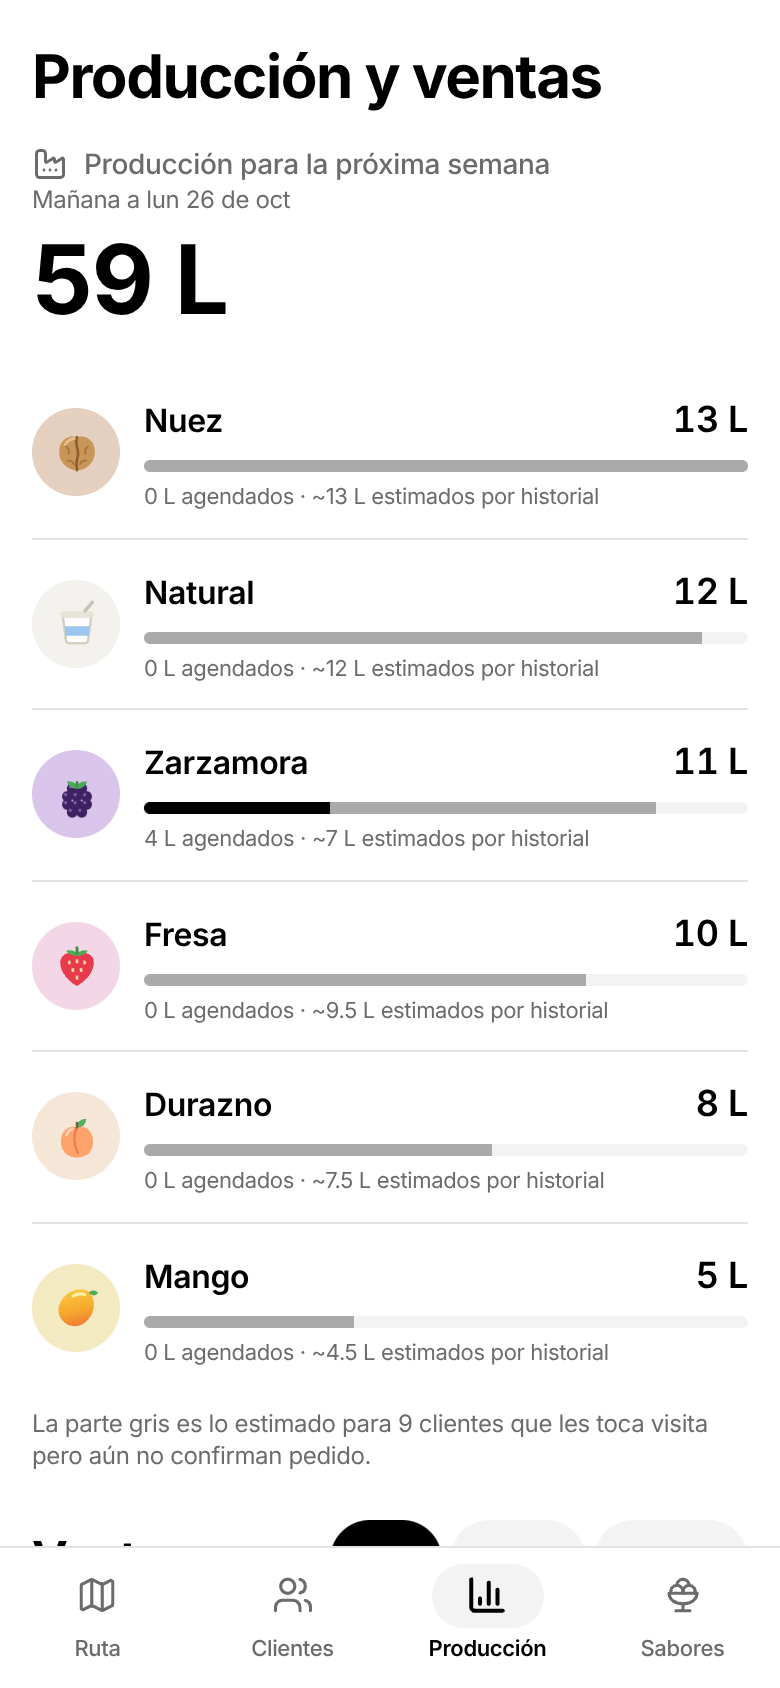
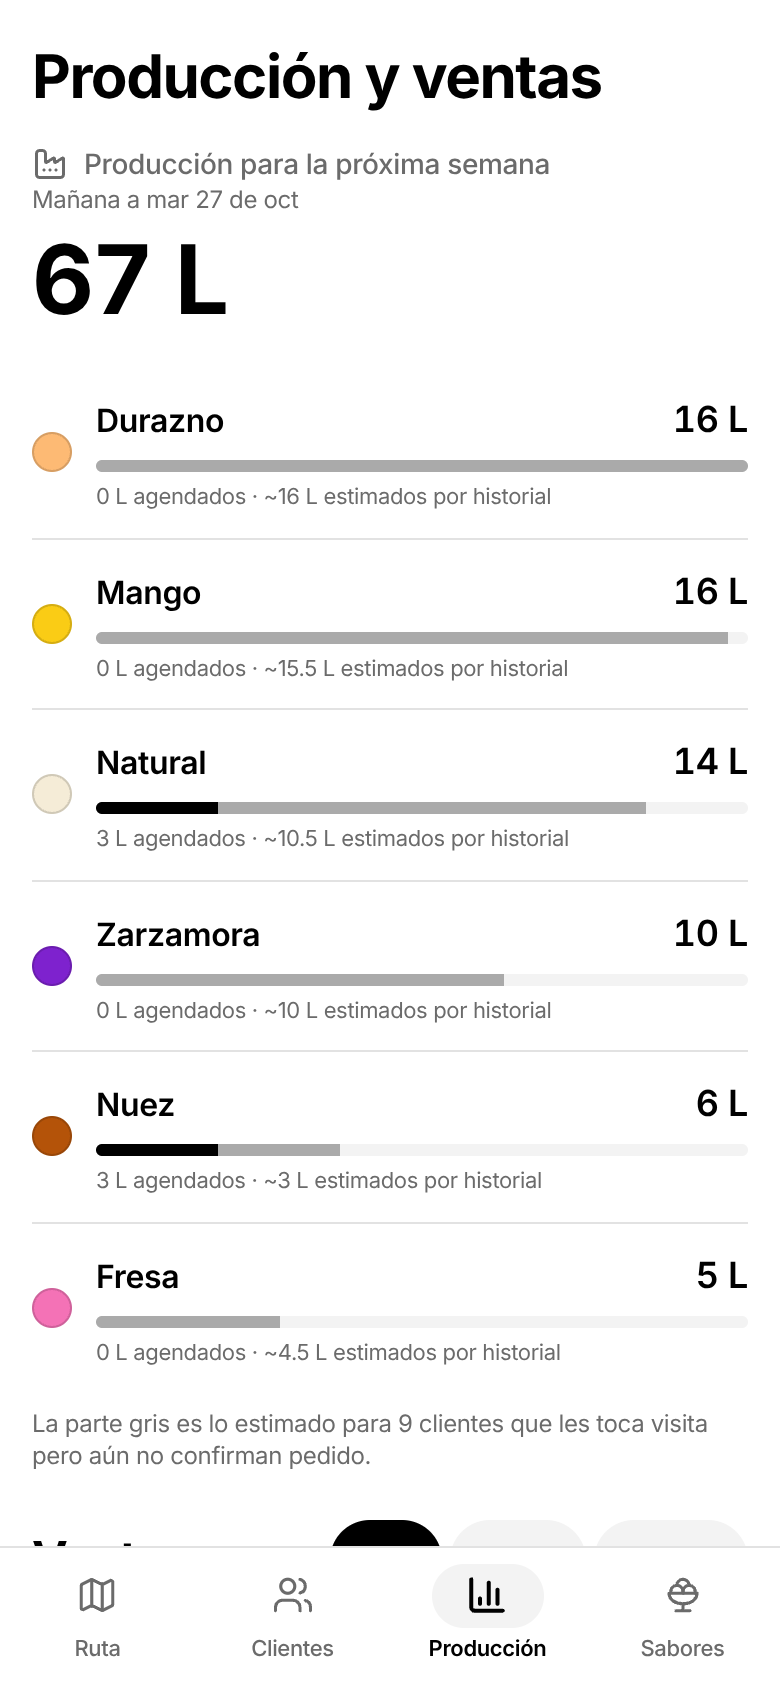
Quitar los íconos de fruta y volver a los colores de sabor
Los sabores vuelven a mostrarse con su color: puntito de color en la ruta, en
clientes, producción y sabores, y tarjetas de color con franja oscura en el
selector. Se mantiene el resto del diseño más limpio.

Claude-Session: https://claude.ai/code/session_01G7W8UvjspHXDEB5JrSDSWF

diff --git a/src/components/SelectorSabores.tsx b/src/components/SelectorSabores.tsx
@@ -1,7 +1,6 @@
 import { Minus, Plus } from 'lucide-react'
 import type { DetallePedido, Producto } from '../lib/db'
 import { dinero } from '../lib/fechas'
-import { Insignia } from './Fruta'
 
 export type Cantidades = Record<string, number> // productoId -> litros
 
@@ -15,7 +14,15 @@ export function aItems(c: Cantidades, productos: Producto[]): DetallePedido[] {
     .map(([id, litros]) => ({ productoId: id, litros, precio_litro: prod.get(id)!.precio_litro }))
 }
 
-// Una tarjeta limpia por sabor: su fruta, el precio y [-] litros [+] con botones grandes para una sola mano.
+// Texto claro sobre el fondo de color del sabor.
+function textoSobre(hex: string) {
+  const n = parseInt(hex.slice(1), 16)
+  const l = (0.299 * (n >> 16) + 0.587 * ((n >> 8) & 255) + 0.114 * (n & 255)) / 255
+  return l > 0.6 ? '#0f172a' : '#ffffff'
+}
+
+// Tarjetas por sabor: el color arriba con [-] litros [+] y una franja oscura con nombre y precio,
+// como las tarjetas de vehículo de Uber. Botones grandes para usar con una sola mano.
 export function SelectorSabores({ productos, valor, onChange }: {
   productos: Producto[]
   valor: Cantidades
@@ -32,42 +39,43 @@ export function SelectorSabores({ productos, valor, onChange }: {
       <div className="grid grid-cols-2 gap-3">
         {visibles.map((p) => {
           const l = valor[p.id] ?? 0
+          const color = textoSobre(p.color_hex)
           return (
-            <div key={p.id} className={`rounded-2xl bg-papel p-3.5 transition-colors ${l ? 'ring-2 ring-tinta' : 'ring-1 ring-linea'}`}>
-              <div className="flex items-start justify-between">
-                <Insignia sabor={p.sabor} color={p.color_hex} size={52} />
-                <div className={`pt-1 text-sm font-semibold tabular-nums ${l ? 'text-tinta' : 'text-transparent'}`}>{dinero(l * p.precio_litro)}</div>
-              </div>
-              <div className="mt-2.5 truncate text-base leading-5 font-semibold">{p.sabor}</div>
-              <div className="text-xs text-apagado">{dinero(p.precio_litro)} / L</div>
-              <div className="mt-3 flex items-center justify-between">
+            <div key={p.id} className={`overflow-hidden rounded-2xl transition-shadow ${l ? 'shadow-tarjeta ring-2 ring-tinta' : 'ring-1 ring-linea'}`}>
+              <div className="flex items-center justify-between gap-1 px-2 py-4" style={{ background: p.color_hex, color }}>
                 <button
                   onClick={() => cambiar(p.id, -1)}
-                  className="grid h-11 w-11 place-items-center rounded-full bg-niebla active:bg-linea disabled:opacity-35"
+                  className="grid h-11 w-11 place-items-center rounded-full bg-white/80 text-tinta active:bg-white"
                   aria-label={`Quitar litro de ${p.sabor}`}
-                  disabled={!l}
                 >
-                  <Minus size={20} strokeWidth={2.5} />
+                  <Minus size={20} strokeWidth={3} />
                 </button>
                 <div className="text-center">
-                  <div className="text-2xl leading-6 font-semibold tabular-nums">{l}</div>
-                  <div className="text-[11px] text-apagado">litros</div>
+                  <div className="text-4xl leading-none font-extrabold tabular-nums">{l}</div>
+                  <div className="mt-0.5 text-[11px] font-semibold opacity-70">litros</div>
                 </div>
                 <button
                   onClick={() => cambiar(p.id, 1)}
-                  className="grid h-11 w-11 place-items-center rounded-full bg-niebla active:bg-linea"
+                  className="grid h-11 w-11 place-items-center rounded-full bg-white/80 text-tinta active:bg-white"
                   aria-label={`Agregar litro de ${p.sabor}`}
                 >
-                  <Plus size={20} strokeWidth={2.5} />
+                  <Plus size={20} strokeWidth={3} />
                 </button>
+              </div>
+              <div className="bg-marino px-3 py-2.5 text-white">
+                <div className="truncate text-base leading-5 font-bold">{p.sabor}</div>
+                <div className="mt-0.5 flex justify-between text-xs text-white/60">
+                  <span>{dinero(p.precio_litro)} / L</span>
+                  <span className={`font-bold tabular-nums ${l ? 'text-white' : ''}`}>{l ? dinero(l * p.precio_litro) : '—'}</span>
+                </div>
               </div>
             </div>
           )
         })}
       </div>
-      <div className="mt-3 flex items-center justify-between rounded-2xl bg-niebla px-4 py-3.5">
-        <span className="text-apagado">{litros} L en total</span>
-        <span className="text-2xl font-semibold tracking-tight tabular-nums">{dinero(total)}</span>
+      <div className="mt-3 flex items-center justify-between rounded-2xl bg-marino px-4 py-3.5 text-white">
+        <span className="text-white/70">{litros} L en total</span>
+        <span className="text-2xl font-extrabold tracking-tight tabular-nums">{dinero(total)}</span>
       </div>
     </div>
   )

diff --git a/src/components/Pronostico.tsx b/src/components/Pronostico.tsx
@@ -4,7 +4,6 @@ import { Factory, TrendingDown, TrendingUp } from 'lucide-react'
 import { db } from '../lib/db'
 import { dinero, hoy, sumarDias, textoFecha } from '../lib/fechas'
 import { Segmentado } from './ui'
-import { IconoSabor, Insignia } from './Fruta'
 import { pronosticoSemanal, resumenVentas } from '../lib/pronostico'
 
 const PERIODOS = { hoy: 'Hoy', semana: '7 días', mes: '30 días' } as const
@@ -36,7 +35,7 @@ export function Pronostico() {
         <div className="mt-5 divide-y divide-linea">
           {pron.filas.map((f) => (
             <div key={f.producto.id} className="flex items-center gap-3 py-3">
-              <Insignia sabor={f.producto.sabor} color={f.producto.color_hex} size={44} />
+              <span className="h-5 w-5 shrink-0 rounded-full border border-black/15" style={{ background: f.producto.color_hex }} />
               <div className="min-w-0 flex-1">
                 <div className="flex items-baseline justify-between">
                   <span className="font-semibold">{f.producto.sabor}</span>
@@ -80,17 +79,17 @@ export function Pronostico() {
           <div className="mt-4 grid grid-cols-2 gap-2">
             <div className="rounded-2xl bg-niebla p-3">
               <div className="flex items-center gap-1 text-xs text-verde"><TrendingUp size={14} /> Más vendido</div>
-              <div className="mt-1 flex items-center gap-1.5 font-semibold"><IconoSabor sabor={ventas.porSabor[0].producto.sabor} size={20} />{ventas.porSabor[0].producto.sabor}</div>
+              <div className="mt-1 font-semibold">{ventas.porSabor[0].producto.sabor}</div>
             </div>
             <div className="rounded-2xl bg-niebla p-3">
               <div className="flex items-center gap-1 text-xs text-amber-600"><TrendingDown size={14} /> Menos vendido</div>
-              <div className="mt-1 flex items-center gap-1.5 font-semibold"><IconoSabor sabor={ventas.porSabor[ventas.porSabor.length - 1].producto.sabor} size={20} />{ventas.porSabor[ventas.porSabor.length - 1].producto.sabor}</div>
+              <div className="mt-1 font-semibold">{ventas.porSabor[ventas.porSabor.length - 1].producto.sabor}</div>
             </div>
           </div>
           <div className="mt-3 divide-y divide-linea">
             {ventas.porSabor.map((s) => (
               <div key={s.producto.id} className="flex items-center gap-3 py-3">
-                <Insignia sabor={s.producto.sabor} color={s.producto.color_hex} size={40} />
+                <span className="h-4 w-4 shrink-0 rounded-full border border-black/15" style={{ background: s.producto.color_hex }} />
                 <div className="min-w-0 flex-1">
                   <div className="flex justify-between gap-2 text-sm">
                     <span className="font-semibold">{s.producto.sabor}</span>

diff --git a/src/components/Ajustes.tsx b/src/components/Ajustes.tsx
@@ -4,7 +4,6 @@ import { Download, Plus, Trash2, Upload } from 'lucide-react'
 import { borrar, db, guardar, uid, type Producto } from '../lib/db'
 import { dinero, hoy } from '../lib/fechas'
 import { borrarTodo } from '../lib/demo'
-import { Insignia } from './Fruta'
 import { Boton, Campo, Hoja, aviso, claseInput } from './ui'
 
 const COLORES = ['#f472b6', '#f5ecd7', '#fdba74', '#facc15', '#b45309', '#7e22ce', '#ef4444', '#22c55e', '#38bdf8', '#a3e635']
@@ -56,7 +55,7 @@ export function Ajustes() {
       <div className="mt-4 space-y-2">
         {productos.map((p) => (
           <button key={p.id} onClick={() => setEditando(p)} className={`flex w-full items-center gap-3 rounded-2xl bg-niebla p-3 text-left ${p.disponible ? '' : 'opacity-50'}`}>
-            <Insignia sabor={p.sabor} color={p.color_hex} size={48} />
+            <span className="h-11 w-11 shrink-0 rounded-full border border-black/10" style={{ background: p.color_hex }} />
             <div className="flex-1">
               <div className="font-semibold">{p.sabor} {!p.disponible && <span className="text-xs font-normal text-apagado">(sin stock)</span>}</div>
               <div className="text-xs text-apagado">Venta {dinero(p.precio_litro)}/L · Costo {dinero(p.costo_litro)}/L</div>
@@ -114,17 +113,13 @@ function FormSabor({ producto, tieneVentas, onCerrar }: { producto?: Producto; t
   return (
     <Hoja abierta onCerrar={onCerrar} titulo={producto ? 'Editar sabor' : 'Nuevo sabor'}>
       <div className="space-y-4 pb-4">
-        <div className="flex items-center gap-3">
-          <Insignia sabor={sabor} color={color} size={56} />
-          <p className="text-sm text-apagado">El ícono se elige solo según el nombre: fresa, mango, durazno, nuez, zarzamora, plátano…</p>
-        </div>
         <Campo etiqueta="Sabor"><input className={claseInput} value={sabor} onChange={(e) => setSabor(e.target.value)} placeholder="Ej. Fresa" /></Campo>
         <div className="grid grid-cols-2 gap-3">
           <Campo etiqueta="Precio por litro"><input className={claseInput} inputMode="decimal" value={precio} onChange={(e) => setPrecio(e.target.value)} /></Campo>
           <Campo etiqueta="Costo por litro"><input className={claseInput} inputMode="decimal" value={costo} onChange={(e) => setCosto(e.target.value)} /></Campo>
         </div>
         <div>
-          <div className="mb-1.5 text-sm font-semibold text-apagado">Color de acento</div>
+          <div className="mb-1.5 text-sm font-semibold text-apagado">Color</div>
           <div className="flex flex-wrap gap-2">
             {COLORES.map((c) => (
               <button key={c} onClick={() => setColor(c)} className={`h-10 w-10 rounded-full ${color === c ? 'ring-2 ring-tinta ring-offset-2' : ''}`} style={{ background: c }} aria-label={c} />

diff --git a/src/components/Clientes.tsx b/src/components/Clientes.tsx
@@ -7,7 +7,6 @@ import { DIAS_CORTOS, dinero, textoFecha, textoFrecuencia } from '../lib/fechas'
 import { ubicacionActual, type Punto } from '../lib/ruteo'
 import { ESTILO_MAPA } from './Mapa'
 import { EditorPedido } from './EditorPedido'
-import { IconoSabor } from './Fruta'
 import { Accion, Boton, Campo, Hoja, Segmentado, aviso, claseInput, telLimpio } from './ui'
 
 export function Clientes() {
@@ -82,7 +81,7 @@ export function Clientes() {
                 <div className="truncate text-base leading-5 font-semibold">{c.nombre}</div>
                 <div className="mt-0.5 truncate text-sm text-apagado">
                   {textoFrecuencia(c.frecuencia)} · {c.ventana === 'MAÑANA' ? 'mañana' : 'tarde'}
-                  {fav && <span className="inline-flex items-center gap-1 align-middle"> · <IconoSabor sabor={fav.sabor} size={15} /> {fav.sabor}</span>}
+                  {fav && <> · ★ {fav.sabor}</>}
                 </div>
               </div>
               {s?.proximo && <div className="rounded-full bg-azul/10 px-2.5 py-1 text-xs font-semibold text-azul">{textoFecha(s.proximo)}</div>}
@@ -133,7 +132,7 @@ function Perfil({ cliente, pedidos, litros, favorito, sabor, onCerrar, onEditar 
         <div className="text-sm text-apagado">{cliente.direccion} · {textoFrecuencia(cliente.frecuencia)} · {cliente.ventana === 'MAÑANA' ? 'mañana' : 'tarde'}</div>
         <div className="grid grid-cols-3 gap-2 text-center">
           <Dato valor={`${litros} L`} etiqueta="Consumidos" />
-          <Dato valor={favorito ?? '—'} etiqueta="Favorito" icono={favorito ? <IconoSabor sabor={favorito} size={13} className="inline" /> : <Star size={12} className="inline" />} />
+          <Dato valor={favorito ?? '—'} etiqueta="Favorito" icono={<Star size={12} className="inline" />} />
           <Dato valor={ultima ? textoFecha(ultima.fecha) : '—'} etiqueta="Última visita" />
         </div>
         <div className="grid grid-cols-4 gap-2">
@@ -195,7 +194,7 @@ function FilaPedido({ p, sabor, onClick }: { p: Pedido; sabor: (id: string) => {
       <div className="flex min-w-0 flex-1 flex-wrap gap-1">
         {p.items.map((i) => (
           <span key={i.productoId} className="flex items-center gap-1 text-xs">
-            <IconoSabor sabor={sabor(i.productoId)?.sabor ?? ''} size={15} />
+            <span className="h-3 w-3 rounded-full" style={{ background: sabor(i.productoId)?.color_hex }} />
             {i.litros}L {sabor(i.productoId)?.sabor}
           </span>
         ))}

diff --git a/src/components/Ruta.tsx b/src/components/Ruta.tsx
@@ -9,7 +9,6 @@ import { dinero, hoy, iso, textoFecha } from '../lib/fechas'
 import { calcularRuta, distancia, enlaceNavegar, ubicacionActual, type Punto, type Ruta as RutaCalc } from '../lib/ruteo'
 import { cargarDemo } from '../lib/demo'
 import { Mapa, type Pin } from './Mapa'
-import { IconoSabor } from './Fruta'
 import { EditorPedido } from './EditorPedido'
 import { aCantidades, type Cantidades } from './SelectorSabores'
 import { Accion, Boton, Hoja, Segmentado, aviso, telLimpio } from './ui'
@@ -266,8 +265,8 @@ export function Ruta({ irAClientes }: { irAClientes: () => void }) {
                   {activo.items.map((i) => {
                     const p = prodPorId.get(i.productoId)
                     return (
-                      <span key={i.productoId} className="flex items-center gap-2 rounded-full bg-niebla py-1.5 pr-3.5 pl-2 text-sm font-medium">
-                        <IconoSabor sabor={p?.sabor ?? ''} size={22} />
+                      <span key={i.productoId} className="flex items-center gap-1.5 rounded-full bg-niebla py-1.5 pr-3 pl-2 text-sm font-semibold">
+                        <span className="h-4 w-4 rounded-full border border-black/15" style={{ background: p?.color_hex ?? '#888' }} />
                         {i.litros} L {p?.sabor ?? '¿?'}
                       </span>
                     )

diff --git a/src/index.css b/src/index.css
@@ -18,6 +18,7 @@
   --color-niebla: #f3f3f3;
   --color-linea: #e2e2e2;
   --color-apagado: #6b6b6b;
+  --color-marino: #0e1124;
   --color-azul: #276ef1;
   --color-verde: #05a357;
   --color-rojo: #e11900;

diff --git a/README.md b/README.md
@@ -19,7 +19,7 @@ En la pantalla **Ruta**, si no hay pedidos, el botón **Ejemplo** carga 10 clien
 
 | Pantalla | Contenido |
 |---|---|
-| Ruta | Mapa MapLibre en 3D, gris claro como el de Uber (edificios extruidos, vista inclinada, botón 2D/3D). Ruta óptima por calles reales con OSRM en azul, primero clientes de mañana y luego de tarde. Pines negros numerados por parada. Hoja inferior con cliente, sabores, total y **Pedido Realizado**, y una franja con el avance del día. Cada sabor lleva el ícono de su fruta. Navegar (Google Maps), llamar, WhatsApp, editar, omitir y reprogramar. |
+| Ruta | Mapa MapLibre en 3D, gris claro como el de Uber (edificios extruidos, vista inclinada, botón 2D/3D). Ruta óptima por calles reales con OSRM en azul, primero clientes de mañana y luego de tarde. Pines negros numerados por parada. Hoja inferior con cliente, sabores, total y **Pedido Realizado**, y una franja con el avance del día. Navegar (Google Maps), llamar, WhatsApp, editar, omitir y reprogramar. |
 | Post-entrega | Realizar nuevo pedido (igual que el anterior o desde cero) · Recordar más tarde (campana con WhatsApp prellenado) · Cerrar. Al cerrar, la ruta se recalcula desde tu posición. |
 | Selector | Tarjetas por sabor con su color, botones grandes − / + por litro, subtotal y total en vivo, fecha sugerida según la frecuencia del cliente. |
 | Clientes | Alta con GPS y ajuste en mapa, frecuencia (días fijos o cada N días), horario mañana/tarde, búsqueda, perfil con litros consumidos, sabor favorito, historial y pedidos agendados, archivar. |
@@ -28,7 +28,7 @@ En la pantalla **Ruta**, si no hay pedidos, el botón **Ejemplo** carga 10 clien
 
 ## Técnico
 
-- Diseño estilo Uber, limpio: fondo blanco, botones negros, tarjetas grises suaves y azul sólo para la ruta. Colores definidos en `src/index.css` (`@theme`). Los íconos de fruta de cada sabor están en `src/components/Fruta.tsx` y se eligen solos por el nombre del sabor (fresa, durazno, mango, nuez, zarzamora, plátano…); un sabor sin fruta conocida usa un vasito de yogurt. Tipografía Inter (licencia OFL en `src/fonts/`), incluida en la app para que se vea igual sin internet.
+- Diseño estilo Uber, limpio: fondo blanco, botones negros, tarjetas grises suaves y azul sólo para la ruta. Colores definidos en `src/index.css` (`@theme`). Tipografía Inter (licencia OFL en `src/fonts/`), incluida en la app para que se vea igual sin internet.
 
 - Vite + React 19 + TypeScript + Tailwind 4. Mapa: `maplibre-gl` con estilo libre de OpenFreeMap (sin llave).
 - Datos en IndexedDB con Dexie (`src/lib/db.ts`). Cada cambio queda también en la tabla `cola` para sincronizar con un servidor cuando exista.
